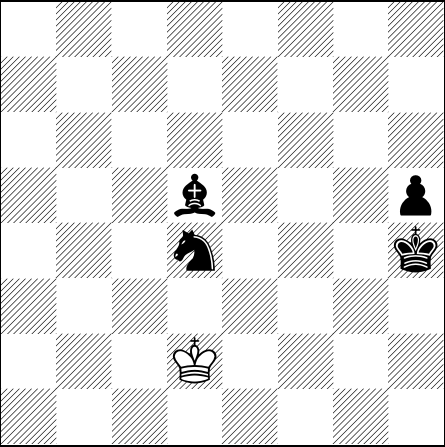
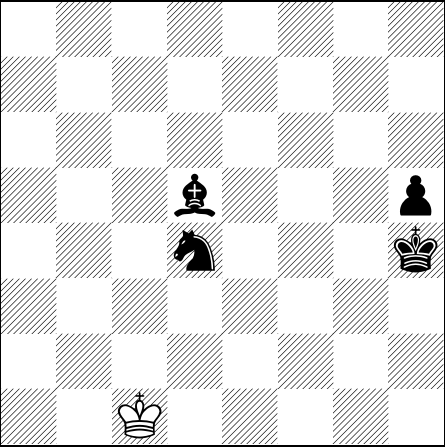
[automated] Regenerate text/pdf for chessboard

Changed region(s): [[0.3798, 0.7562, 0.4966, 0.8725], [0.2629, 0.8725, 0.3798, 0.9888]]

diff --git a/default_filepath.tex b/default_filepath.tex
@@ -13,6 +13,6 @@
 \normalsize%
 \setchessboard{showmover=false}%
 \newgame%
-\fenboard{8/8/8/3b3p/3n3k/8/3K4/8 w - - 20 190}%
+\fenboard{8/8/8/3b3p/3n3k/8/8/2K5 b - - 21 190}%
 \chessboard%
 \end{document}
